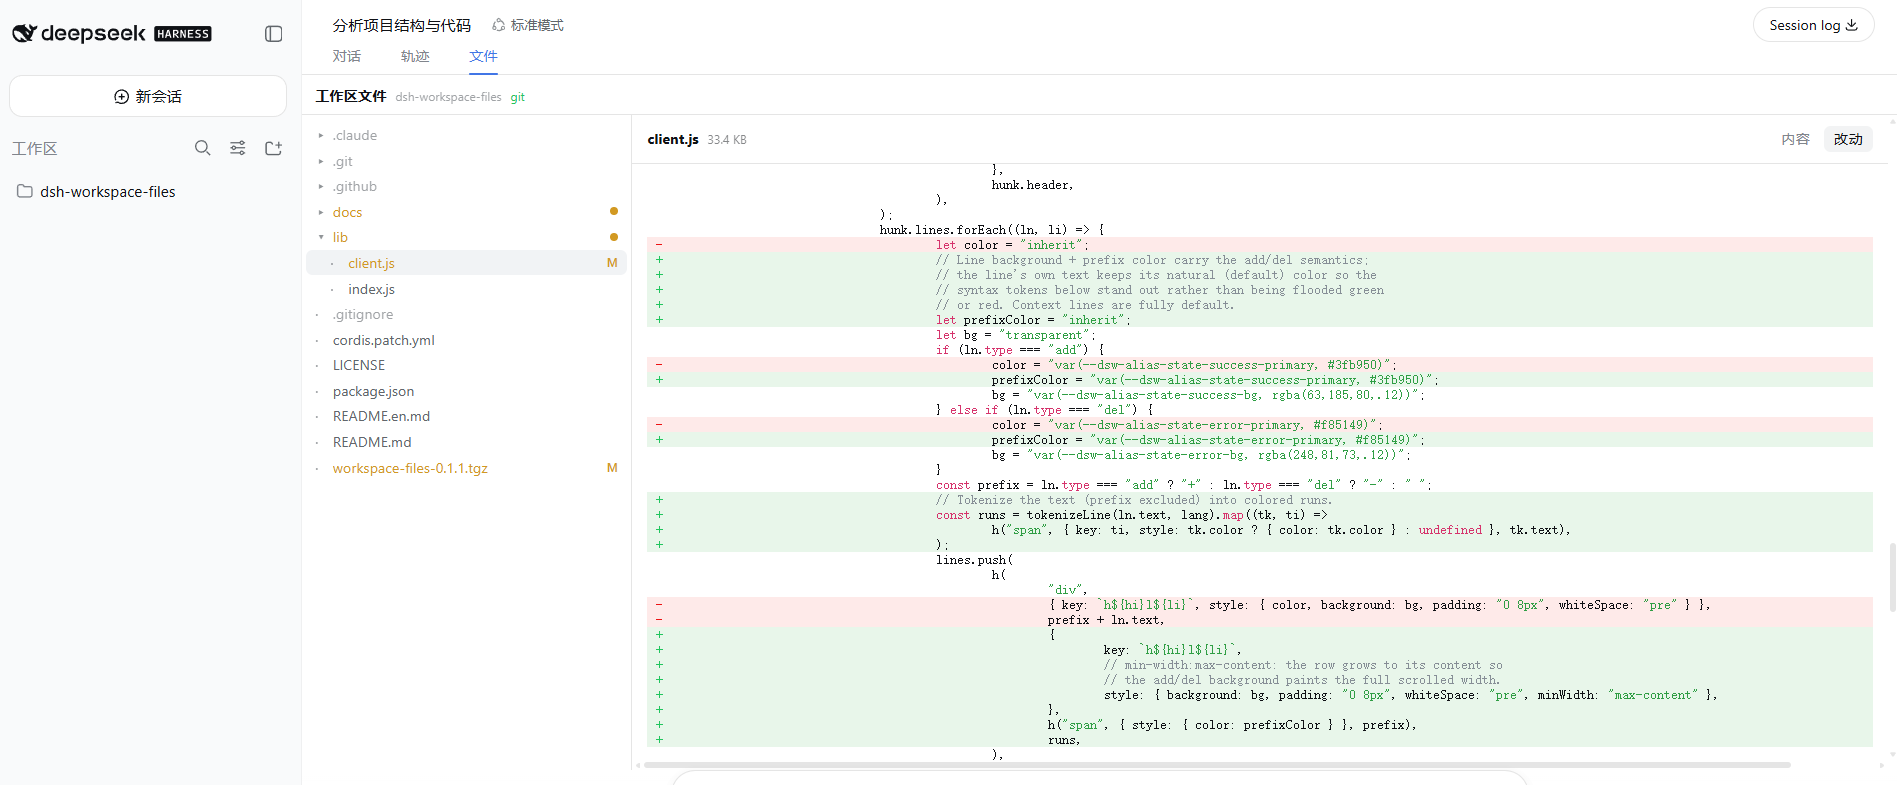
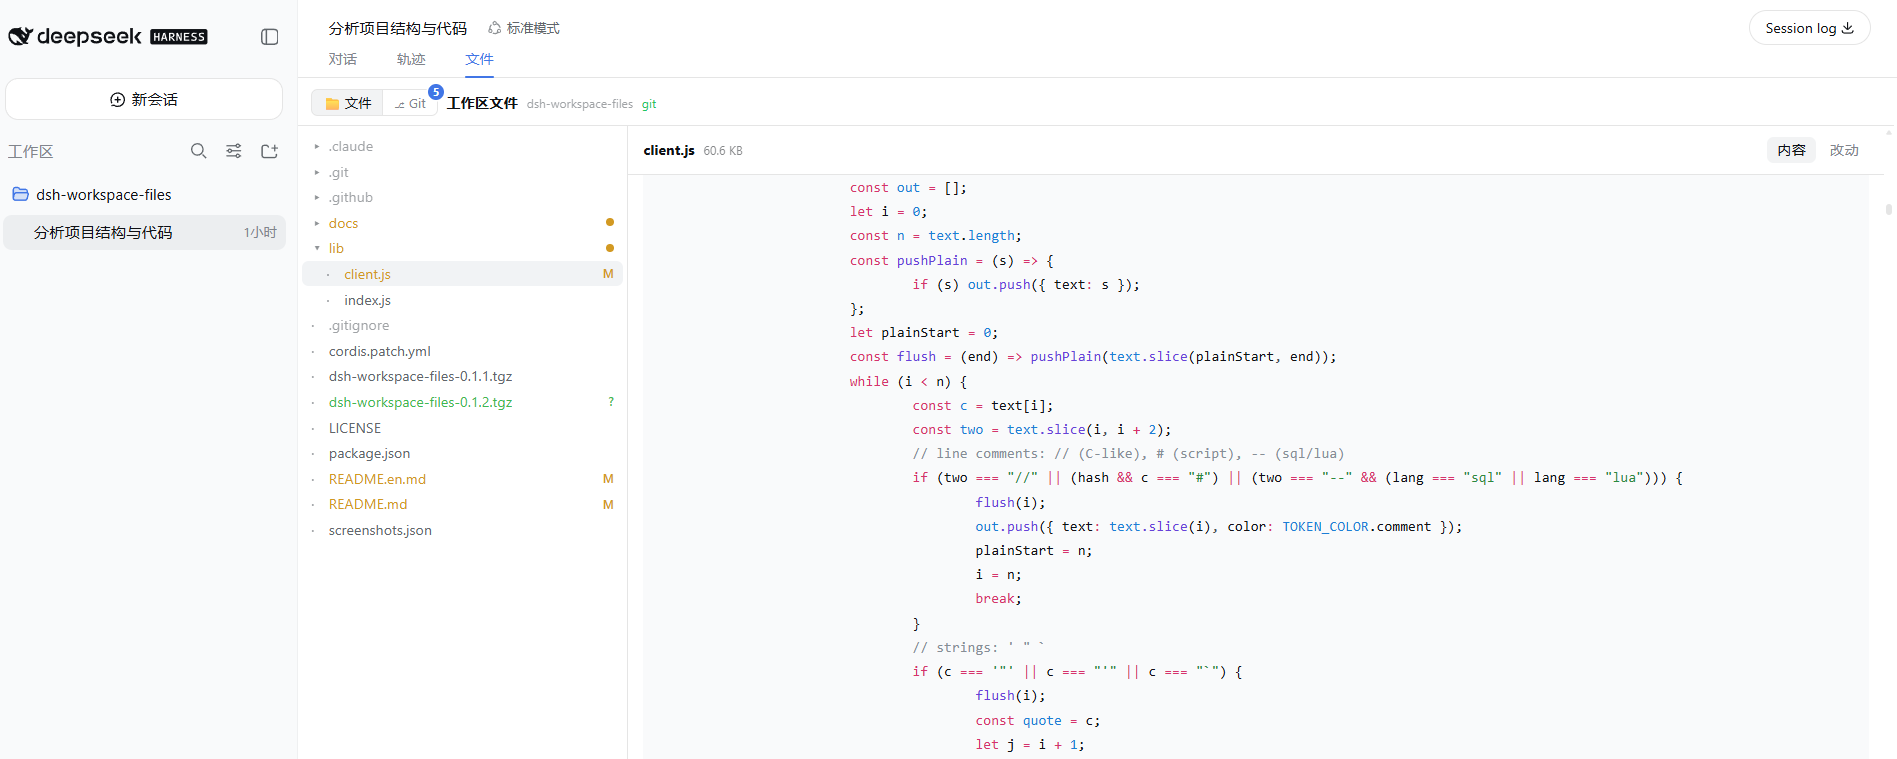
feat: add VS Code-style Git source control panel
Add a built-in Git panel with stage/unstage/discard, commit, pull/push, and branch checkout capabilities. Includes AI-generated commit messages, a diff line-number gutter, and confirmation dialogs for destructive actions. Update README documentation and bump version to 0.1.2.

diff --git a/lib/client.js b/lib/client.js
@@ -442,6 +442,28 @@ window.__ModuleLoader__.load({
 				"}",
 				".wf-btn:hover { background: var(--dsw-alias-interactive-bg-hover, rgba(140,140,140,.12)); color: var(--dsw-alias-label-primary, inherit); }",
 				".wf-btn.wf-btnActive { background: var(--dsw-alias-interactive-bg-hover, rgba(140,140,140,.16)); color: var(--dsw-alias-label-primary, inherit); }",
+				// Segmented tabs (文件 | Git) — both segments are always present so the
+				// control keeps a constant width; only the active tint moves. This
+				// avoids the layout jump a single label-swapping toggle caused.
+				".wf-seg { display: inline-flex; flex: 0 0 auto; border: 1px solid var(--dsw-alias-border-l2, rgba(140,140,140,.24)); border-radius: 6px; }",
+				".wf-segbtn {",
+				"  position: relative; display: inline-flex; align-items: center; justify-content: center; gap: 4px;",
+				"  padding: 3px 10px; border: 0; background: transparent; cursor: pointer; font: inherit; font-size: 12px;",
+				"  line-height: 1.4; white-space: nowrap; color: var(--dsw-alias-label-tertiary, inherit);",
+				"}",
+				".wf-segbtn:first-child { border-radius: 5px 0 0 5px; }",
+				".wf-segbtn:last-child { border-radius: 0 5px 5px 0; }",
+				".wf-segbtn + .wf-segbtn { border-left: 1px solid var(--dsw-alias-border-l2, rgba(140,140,140,.24)); }",
+				".wf-segbtn:hover { background: var(--dsw-alias-interactive-bg-hover, rgba(140,140,140,.12)); color: var(--dsw-alias-label-primary, inherit); }",
+				".wf-segbtn.active { background: var(--dsw-alias-interactive-bg-hover, rgba(140,140,140,.22)); color: var(--dsw-alias-label-primary, inherit); }",
+				// Change-count badge, absolutely positioned so it never widens the tab.
+				".wf-segbadge {",
+				"  position: absolute; top: -6px; right: -7px; min-width: 15px; height: 15px; padding: 0 4px;",
+				"  display: inline-flex; align-items: center; justify-content: center; box-sizing: border-box;",
+				"  border-radius: 8px; font-size: 10px; font-weight: 700; line-height: 1;",
+				"  background: var(--dsw-alias-state-business-primary, #3b82f6); color: #fff;",
+				"  box-shadow: 0 0 0 1.5px var(--dsw-alias-bg-layer-1, #1e1e1e);",
+				"}",
 				// Hide the host CodeBlock's top banner (its language/infostring label
 				// and the floating copy button) inside our file view. The banner is
 				// CodeBlock's first child div; we target it structurally because its
@@ -483,13 +505,6 @@ window.__ModuleLoader__.load({
 				"  font-size: 10px; font-weight: 700; box-sizing: border-box;",
 				"  background: var(--dsw-alias-interactive-bg-hover, rgba(140,140,140,.2));",
 				"  color: var(--dsw-alias-label-secondary, inherit);",
-				"}",
-				// Git badge on the header toggle (activity-bar style change count).
-				".wf-badge {",
-				"  min-width: 15px; height: 15px; padding: 0 4px; border-radius: 8px; margin-left: 4px;",
-				"  display: inline-flex; align-items: center; justify-content: center; box-sizing: border-box;",
-				"  font-size: 10px; font-weight: 700; line-height: 1;",
-				"  background: var(--dsw-alias-state-business-primary, #3b82f6); color: #fff;",
 				"}",
 				// Discard confirmation overlay (rendered inside the Git panel).
 				".wf-overlay {",
@@ -1427,27 +1442,31 @@ window.__ModuleLoader__.load({
 				h(
 					"div",
 					{ style: headerStyle },
+					// Segmented tabs at the far left, switching the pane between the file
+					// tree and the VS Code-style Git panel. Both tabs are always shown
+					// (constant width — no layout jump), and a change-count badge floats
+					// on the Git tab. Only shown when the workspace is a repo.
+					hasGit
+						? h(
+								"div",
+								{ className: "wf-seg" },
+								h(
+									"button",
+									{ className: "wf-segbtn" + (gitMode ? "" : " active"), onClick: () => setGitMode(false), title: "文件树" },
+									"📁 文件",
+								),
+								h(
+									"button",
+									{ className: "wf-segbtn" + (gitMode ? " active" : ""), onClick: () => setGitMode(true), title: "Git 源代码管理" },
+									"⎇ Git",
+									Object.keys(statusMap).length ? h("span", { className: "wf-segbadge" }, String(Object.keys(statusMap).length)) : null,
+								),
+							)
+						: null,
 					h("span", { style: { fontWeight: 600, color: "var(--dsw-alias-label-primary, inherit)" } }, "工作区文件"),
 					h("span", { style: { opacity: 0.6, fontSize: "11px" } }, baseName(root)),
 					hasGit
 						? h("span", { style: { fontSize: "11px", color: "var(--dsw-alias-state-success-primary, #3fb950)" } }, "git")
-						: null,
-					// Branch icon: toggles the left pane between file tree and the
-					// VS Code-style Git panel. Only shown when the workspace is a repo.
-					// A change-count badge (VS Code activity-bar style) hints at how
-					// many files have pending changes.
-					hasGit
-						? h(
-								"button",
-								{
-									className: "wf-btn" + (gitMode ? " wf-btnActive" : ""),
-									style: { marginLeft: "auto", padding: "2px 8px", fontSize: "12px", display: "inline-flex", alignItems: "center", gap: "4px" },
-									onClick: () => setGitMode((v) => !v),
-									title: gitMode ? "切换到文件树" : "切换到 Git 视图",
-								},
-								gitMode ? "📁 文件" : "⎇ Git",
-								Object.keys(statusMap).length ? h("span", { className: "wf-badge" }, String(Object.keys(statusMap).length)) : null,
-							)
 						: null,
 				),
 				h(

diff --git a/README.en.md b/README.en.md
@@ -2,7 +2,7 @@
 
 # dsh-workspace-files
 
-> A [DeepSeek Harness (dsh)](https://github.com/deepseek-ai/deepseek-harness) Web GUI plugin — browse the session workspace directory tree, view file contents, and show line-level Git changes (diff), right inside the conversation view.
+> A [DeepSeek Harness (dsh)](https://github.com/deepseek-ai/deepseek-harness) Web GUI plugin — browse the session workspace directory tree, view file contents, and manage Git the VS Code way (stage / commit / pull / push / switch branches / discard changes / line-level diff), right inside the conversation view.
 
 ![license](https://img.shields.io/badge/license-MIT-blue.svg)
 ![DeepSeek Harness](https://img.shields.io/badge/DeepSeek%20Harness-plugin-6c4cf1)
@@ -10,7 +10,7 @@
 [![LINUX DO](https://img.shields.io/badge/LINUX%20DO-Featured-ffb003?logo=discourse&logoColor=white)](https://linux.do)
 [![Awesome DSH Plugin](https://awesome-dsh-plugin.com/badge.svg)](https://awesome-dsh-plugin.com/p/sqfcyily/dsh-workspace-files/)
 
-![dsh-workspace-files screenshot](docs/155158.png)
+![dsh-workspace-files screenshot](docs/155556.gif)
 
 ## Overview
 
@@ -18,16 +18,24 @@
 
 - 📂 browse the directory tree of the current session's workspace (the session's `cwd`);
 - 📄 view text file contents;
-- 🔀 if the workspace is a Git repository, show status badges (`M`/`A`/`D`/`R`/`?`) on files and view diffs line by line.
+- 🔀 if the workspace is a Git repository, show status badges (`M`/`A`/`D`/`R`/`?`) on files and view diffs line by line;
+- 🧰 run Git operations from a built-in Source Control panel: stage / unstage / discard, commit, pull, push, switch branches, and AI-generated commit messages.
 
 ## Features
 
 - **Directory tree browsing** — lazy-loaded expansion, directories sorted first, hidden files (leading `.`) dimmed.
 - **File viewing** — UTF-8 text content; binary files are auto-detected and skipped; oversized files are truncated with a notice.
-- **Git integration** — working-tree status badges; line-level unified diff for tracked / untracked files (a brand-new file is diffed against the null device via `git diff --no-index`, so its added lines still show).
+- **Git integration** — working-tree status badges; line-level unified diff for tracked / untracked files (a brand-new file is diffed against the null device via `git diff --no-index`, so its added lines still show), with a **line-number gutter** that stays pinned during horizontal scroll.
+- **Git Source Control (VS Code-style)** — a "📁 Files / ⎇ Git" segmented switch in the header opens a full Source Control panel:
+  - changes split into collapsible **Staged Changes / Changes** sections (a file can appear in both, e.g. `MM`), with a change-count badge;
+  - **stage (+) / unstage (−) / discard (↩)** per file or per section, with inline actions on hover; clicking a row opens its diff;
+  - **commit** — with **smart commit** (stages everything first when nothing is staged) and `Ctrl/⌘+Enter` to commit;
+  - **pull / push / branch checkout**;
+  - **✨ AI-generated commit message** — uses the session's currently-selected model to draft one from the diff;
+  - **discard is guarded by a confirmation dialog** (destructive; runs only after you confirm); failures surface inline in red.
 - **Theme-aware** — uses DSH theme tokens throughout (no hardcoded colors/borders), matching the trajectory view and staying consistent in both light and dark themes.
-- **Sandboxed access** — all filesystem access is confined to the session workspace root; path traversal returns `403`.
-- **Graceful degradation** — a non-Git directory, a missing `git` binary, or a binary/untracked file each yields a well-formed response; the frontend hides the diff entry and falls back to plain browsing.
+- **Sandboxed access** — all filesystem access and Git operations are confined to the session workspace root; path traversal returns `403`.
+- **Graceful degradation** — a non-Git directory, a missing `git` binary, or a binary/untracked file each yields a well-formed response; the frontend hides the Git entry and falls back to plain browsing.
 
 ## Requirements
 
@@ -40,7 +48,7 @@
 Download the tarball for the version you want from the GitHub Release, then install (web profile):
 
 ```powershell
-dsh plugin --profile web add ./dsh-workspace-files-0.1.1.tgz
+dsh plugin --profile web add ./dsh-workspace-files-0.1.2.tgz
 ```
 
 Or install straight from GitHub:
@@ -63,34 +71,37 @@ dsh plugin --profile web remove dsh-workspace-files
 2. Enter any session and select the "**Files**" tab at the top of the conversation view.
 3. In the left directory tree: click a directory to expand it, click a file to view its contents.
 4. If the workspace is a Git repository: a status badge shows to the right of each file name; after opening a file, use the top-right "**Content / Changes**" toggle to view the diff.
+5. Use the top-left "📁 Files / ⎇ Git" segmented switch to open the **Source Control** panel:
+   - **stage (+)** files from the "Changes" section into "Staged Changes", or act on a whole section at once;
+   - type a message in the commit box (or hit **✨** to let the AI draft one from the diff), then click **✓ Commit** (it auto-stages everything when nothing is staged; `Ctrl/⌘+Enter` also works);
+   - use the toolbar's **↓ Pull / ↑ Push** and the **branch dropdown** for pull / push / checkout;
+   - to drop changes, click **↩ Discard** on a file or section and confirm in the dialog (this cannot be undone).
 
 The workspace root is taken from the current session's `cwd` (the session header dsh records). The plugin resolves it from the host by `sessionId` — no need to specify a path manually.
 
 ## Security
 
-- All filesystem access goes through `confine(root, target)`, ensuring the target stays within the session workspace root; otherwise `403` is returned.
+- All filesystem access goes through `confine(root, target)`, ensuring the target stays within the session workspace root; otherwise `403` is returned. Every path argument in a Git operation is likewise bounded via `confinedRelPaths`.
 - Symlinks are reported by their own kind but **not followed** (kept simple and safe for v1).
 - Binary files (a NUL byte within the first 8000 bytes) return no content, only a `binary: true` flag.
-- Only `GET` read-only routes are exposed; there is no write / delete / execute interface.
+- **Route split**: read-only browsing (list / read / diff / is-repo / status / branches) uses `GET`; Git **write operations** (stage / unstage / discard / commit / pull / push / checkout / commit-message) use `POST`. There is no filesystem write / delete interface — writes are Git-only.
+- Git is always invoked via `execFile` calling `git` directly (**no shell, no string concatenation**), with the working directory pinned to the session workspace root, to avoid command injection.
+- **Discard is destructive**: it restores tracked files with `git checkout --` and removes untracked files with `git clean -fd`; the frontend **always shows a confirmation dialog** first. Be aware it cannot be undone.
 
 ## Verified behavior
 
 - host `/api/workspace-files/session-root`: resolves the session workspace root by `sessionId` (reads the `cwd` header from `sessionPersistence`).
 - host `/api/workspace-files/list|read`: directory listing, file read, path traversal returns `403`.
-- host `/api/workspace-git/is-repo|status|diff`: repo probe, status parsing, line-level diff for tracked/untracked files.
-- non-Git directory / git missing: `is-repo` returns `false`, and the frontend hides the diff entry.
+- host `/api/workspace-git/is-repo|status|diff`: repo probe, status parsing (including the index/working-tree columns `x`/`y`), line-level diff for tracked/untracked files.
+- host `/api/workspace-git/branches|checkout|stage|unstage|discard|commit|pull|push|commit-message`: branch listing/checkout, stage/unstage/discard, commit, pull, push, AI commit-message generation.
+- non-Git directory / git missing: `is-repo` returns `false`, and the frontend hides the Git entry.
 - the client bundle is correctly served via `/plugins/workspace-files/client.js` and appears in the startup manifest.
-
-## Limitations & known constraints
-
-- Syntax highlighting is not wired up yet (currently plain-text `<pre>`).
-- Diff is unified (inline) view only; no side-by-side (split) view yet.
-- A directory level is capped at 2000 entries; very large directories are truncated (no pagination / incremental lazy loading).
-- Symlinks are not followed.
 
 ## Roadmap
 
 - [x] Syntax highlighting.
+- [x] Git Source Control (stage / commit / pull / push / branch checkout / discard).
+- [x] Diff line-number gutter.
 - [ ] Side-by-side (split) diff view.
 - [ ] Pagination / incremental lazy loading for very large directories.
 

diff --git a/README.md b/README.md
@@ -2,7 +2,7 @@
 
 # dsh-workspace-files
 
-> [DeepSeek Harness (dsh)](https://github.com/deepseek-ai/deepseek-harness) Web GUI 插件 —— 在会话界面里浏览工作区目录、查看文件内容，并结合 Git 显示行级改动（diff）。
+> [DeepSeek Harness (dsh)](https://github.com/deepseek-ai/deepseek-harness) Web GUI 插件 —— 在会话界面里浏览工作区目录、查看文件内容，并提供类 VS Code 的 Git 源代码管理（暂存 / 提交 / 拉取 / 推送 / 分支切换 / 放弃更改 / 行级 diff）。
 
 ![license](https://img.shields.io/badge/license-MIT-blue.svg)
 ![DeepSeek Harness](https://img.shields.io/badge/DeepSeek%20Harness-plugin-6c4cf1)
@@ -10,7 +10,7 @@
 [![LINUX DO](https://img.shields.io/badge/LINUX%20DO-社区推荐-ffb003?logo=discourse&logoColor=white)](https://linux.do)
 [![Awesome DSH Plugin](https://awesome-dsh-plugin.com/badge.svg)](https://awesome-dsh-plugin.com/p/sqfcyily/dsh-workspace-files/)
 
-![dsh-workspace-files 截图](docs/155158.png)
+![dsh-workspace-files 截图](docs/155556.gif)
 
 ## 简介
 
@@ -18,16 +18,24 @@
 
 - 📂 浏览当前会话工作区（session 的 `cwd`）的目录树；
 - 📄 查看文本文件内容；
-- 🔀 若工作区是 Git 仓库，在文件上显示状态角标（`M`/`A`/`D`/`R`/`?`），并按行查看 diff。
+- 🔀 若工作区是 Git 仓库，在文件上显示状态角标（`M`/`A`/`D`/`R`/`?`），并按行查看 diff；
+- 🧰 通过内置的「源代码管理」面板完成 Git 操作：暂存 / 取消暂存 / 放弃更改、提交、拉取、推送、分支切换，以及 AI 生成提交信息。
 
 ## 功能特性
 
 - **目录树浏览** —— 懒加载展开，目录优先排序，隐藏文件（`.` 开头）弱化显示。
 - **文件查看** —— UTF-8 文本内容；二进制文件自动识别并跳过；超大文件截断并提示。
-- **Git 集成** —— working tree 状态角标；tracked / untracked 文件的行级统一 diff（新文件通过 `git diff --no-index` 对比空设备，也能显示新增行）。
+- **Git 集成** —— working tree 状态角标；tracked / untracked 文件的行级统一 diff（新文件通过 `git diff --no-index` 对比空设备，也能显示新增行），diff 带**行号 gutter**（横向滚动时固定）。
+- **Git 源代码管理（类 VS Code）** —— 头部「📁 文件 / ⎇ Git」分段切换，Git 面板提供完整操作：
+  - 变更按 **暂存的更改 / 更改** 两个可折叠分区展示（同一文件可同时出现在两区，如 `MM`），带变更数角标；
+  - 单文件或整区的 **暂存（+）/ 取消暂存（−）/ 放弃更改（↩）**，行悬停显示行内操作，点击行直接打开 diff；
+  - **提交** —— 支持**智能提交**（无已暂存内容时自动暂存全部再提交）、`Ctrl/⌘+Enter` 快捷提交；
+  - **拉取（pull）/ 推送（push）/ 分支切换（checkout）**；
+  - **✨ AI 生成提交信息** —— 使用当前会话所选模型，根据 diff 自动生成；
+  - **放弃更改带确认弹层**（破坏性操作，二次确认后执行）；操作失败时红字内联提示。
 - **主题自适应** —— 全程使用 DSH 主题 token（无硬编码颜色/边框），与轨迹视图观感一致，明暗主题都协调。
-- **安全隔离** —— 所有文件系统访问限制在会话工作区根目录内，路径穿越返回 `403`。
-- **优雅降级** —— 非 Git 目录、缺少 `git` 可执行文件、二进制/未跟踪文件，都会返回结构良好的响应；前端自动隐藏 diff 入口，退化为纯浏览。
+- **安全隔离** —— 所有文件系统与 Git 操作都限制在会话工作区根目录内，路径穿越返回 `403`。
+- **优雅降级** —— 非 Git 目录、缺少 `git` 可执行文件、二进制/未跟踪文件，都会返回结构良好的响应；前端自动隐藏 Git 入口，退化为纯浏览。
 
 ## 环境要求
 
@@ -40,7 +48,7 @@
 从 GitHub Release 下载对应版本的 tarball，然后安装（web profile）：
 
 ```powershell
-dsh plugin --profile web add ./dsh-workspace-files-0.1.1.tgz
+dsh plugin --profile web add ./dsh-workspace-files-0.1.2.tgz
 ```
 
 也可以直接从 GitHub 安装：
@@ -63,34 +71,37 @@ dsh plugin --profile web remove dsh-workspace-files
 2. 进入任意会话，在会话视图顶部选择「**文件**」标签。
 3. 左侧目录树：点击目录展开，点击文件查看内容。
 4. 若工作区是 Git 仓库：文件名右侧显示状态角标；打开文件后，右上角可在「**内容 / 改动**」间切换查看 diff。
+5. 用左上角的「📁 文件 / ⎇ Git」分段切换进入 **源代码管理** 面板：
+   - 在「更改」区把文件 **暂存（+）** 到「暂存的更改」区，或对整区一次性操作；
+   - 在提交框输入信息（或点 **✨** 让 AI 根据 diff 生成），点 **✓ 提交**（无已暂存内容时会自动暂存全部；也可按 `Ctrl/⌘+Enter`）；
+   - 用工具栏的 **↓ 拉取 / ↑ 推送** 与顶部的 **分支下拉** 完成 pull / push / 切换分支；
+   - 需要丢弃改动时点文件或整区的 **↩ 放弃更改**，在弹出的确认框中确认（此操作不可撤销）。
 
 工作区根目录取自当前会话的 `cwd`（dsh 记录的 session header），插件通过 `sessionId` 向宿主解析，无需手动指定路径。
 
 ## 安全性
 
-- 所有文件系统访问都经 `confine(root, target)` 校验，确保目标落在会话工作区根内，否则返回 `403`。
+- 所有文件系统访问都经 `confine(root, target)` 校验，确保目标落在会话工作区根内，否则返回 `403`；Git 操作中所有涉及路径的参数同样经 `confinedRelPaths` 边界化处理。
 - 符号链接按自身类型上报，但**不跟随**（v1 保持简单、安全）。
 - 二进制文件（前 8000 字节含 NUL）不返回内容，仅返回 `binary: true` 标记。
-- 仅暴露 `GET` 只读路由；不提供写入 / 删除 / 执行接口。
+- **路由分工**：只读浏览（列目录 / 读文件 / diff / is-repo / status / branches）走 `GET`；Git **写操作**（stage / unstage / discard / commit / pull / push / checkout / commit-message）走 `POST`。文件系统一侧不提供写入 / 删除接口，写操作仅限 Git。
+- Git 一律通过 `execFile` 直接调用 `git`（**不经 shell、无字符串拼接**），工作目录固定为会话工作区根，规避命令注入。
+- **放弃更改（discard）为破坏性操作**：以 `git checkout --` 还原已跟踪文件、`git clean -fd` 删除未跟踪文件；前端**必定弹出确认对话框**后才执行。请知悉其不可撤销。
 
 ## 已验证行为
 
 - host `/api/workspace-files/session-root`：按 `sessionId` 解析会话工作区根（读 `sessionPersistence` 的 header `cwd`）。
 - host `/api/workspace-files/list|read`：目录列举、文件读取、路径穿越返回 `403`。
-- host `/api/workspace-git/is-repo|status|diff`：仓库探测、status 解析、tracked/untracked 文件的行级 diff。
-- 非 git 目录 / git 缺失：`is-repo` 返回 `false`，前端自动隐藏 diff 入口。
+- host `/api/workspace-git/is-repo|status|diff`：仓库探测、status 解析（含索引/工作区两列 `x`/`y`）、tracked/untracked 文件的行级 diff。
+- host `/api/workspace-git/branches|checkout|stage|unstage|discard|commit|pull|push|commit-message`：分支列举/切换、暂存/取消暂存/放弃更改、提交、拉取、推送、AI 提交信息生成。
+- 非 git 目录 / git 缺失：`is-repo` 返回 `false`，前端自动隐藏 Git 入口。
 - 客户端 bundle 经 `/plugins/workspace-files/client.js` 正确下发，并出现在启动清单中。
-
-## 限制与已知约束
-
-- 尚未接入语法高亮（当前为纯文本 `<pre>`）。
-- diff 仅统一（inline）视图，暂无并排（split）视图。
-- 单层目录最多 2000 条，超大目录会截断（无分页 / 增量懒加载）。
-- 符号链接不跟随。
 
 ## 路线图
 
 - [x] 语法高亮。
+- [x] Git 源代码管理（暂存 / 提交 / 拉取 / 推送 / 分支切换 / 放弃更改）。
+- [x] diff 行号 gutter。
 - [ ] diff 并排（split）视图。
 - [ ] 超大目录的分页 / 增量懒加载。
 
